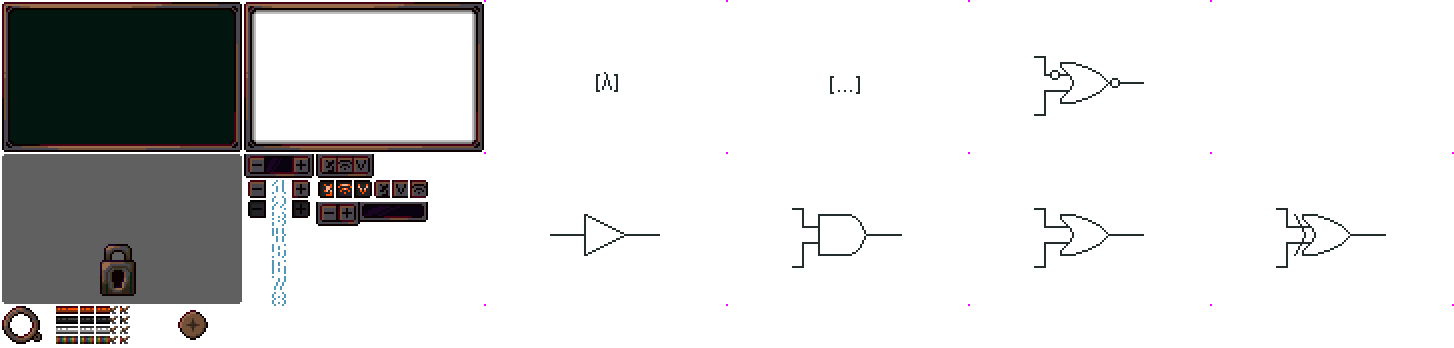
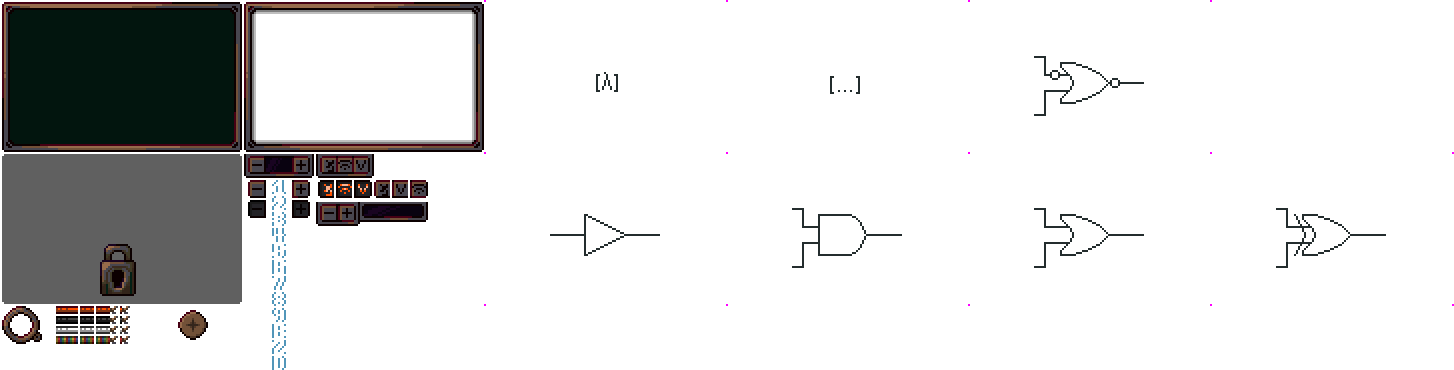
Terrible Implication They Use Base-13

diff --git a/Tiles/Ashen/Radio_Component.cs b/Tiles/Ashen/Radio_Component.cs
@@ -223,8 +223,8 @@ namespace Origins.Tiles.Ashen {
 					spriteBatch.Draw(
 						ComponentUI.Textures.Value,
 						new Rectangle(22, 4, 26, 14).Add(GetDimensions().Position()),
-						new Rectangle(266, 180 + 16 * (tileEntity.Channel % 8), 26, 14),
-						Radio_Component_TE.Colors[tileEntity.Channel / 8]
+						new Rectangle(266, 180 + 16 * (tileEntity.Channel % Radio_Component_TE.count_per_color), 26, 14),
+						Radio_Component_TE.Colors[tileEntity.Channel / Radio_Component_TE.count_per_color]
 					);
 				}
 			}
@@ -246,7 +246,7 @@ namespace Origins.Tiles.Ashen {
 			new(81, 81, 81),
 			new(255, 255, 255)
 		];
-		public const int count_per_color = 8;
+		public const int count_per_color = 12;
 		public static int CurrentIncrement => ItemSlot.ShiftInUse ? count_per_color : 1;
 		public static int Count => Colors.Length * count_per_color;
 		public static int Max => Count - 1;

diff --git a/Misc.cs b/Misc.cs
@@ -30,6 +30,7 @@ using System.Numerics;
 using System.Reflection;
 using System.Reflection.Emit;
 using System.Runtime.CompilerServices;
+using System.Runtime.InteropServices;
 using System.Text;
 using Terraria;
 using Terraria.Audio;
@@ -2456,6 +2457,8 @@ namespace Origins {
 				&& j < array.GetLength(1)
 				&& k < array.GetLength(2);
 		}
+		public static Span<T> AsSpan<T>(this T[,] array) => MemoryMarshal.CreateSpan(ref Unsafe.As<byte, T>(ref MemoryMarshal.GetArrayDataReference(array)), array.Length);
+		public static Span<T> AsSpan<T>(this T[,,] array) => MemoryMarshal.CreateSpan(ref Unsafe.As<byte, T>(ref MemoryMarshal.GetArrayDataReference(array)), array.Length);
 		public static T GetIfInRange<T>(this List<T> array, int index, T fallback = default) {
 			if (!array.IndexInRange(index)) return fallback;
 			return array[index];